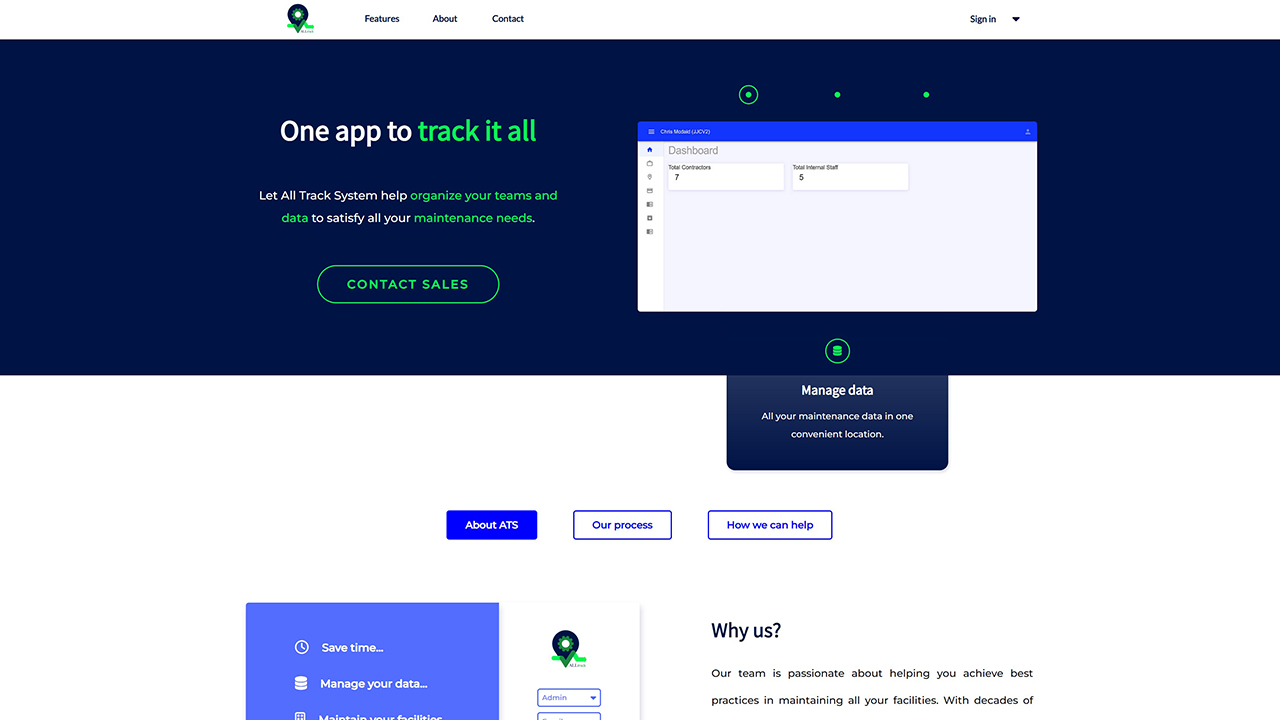
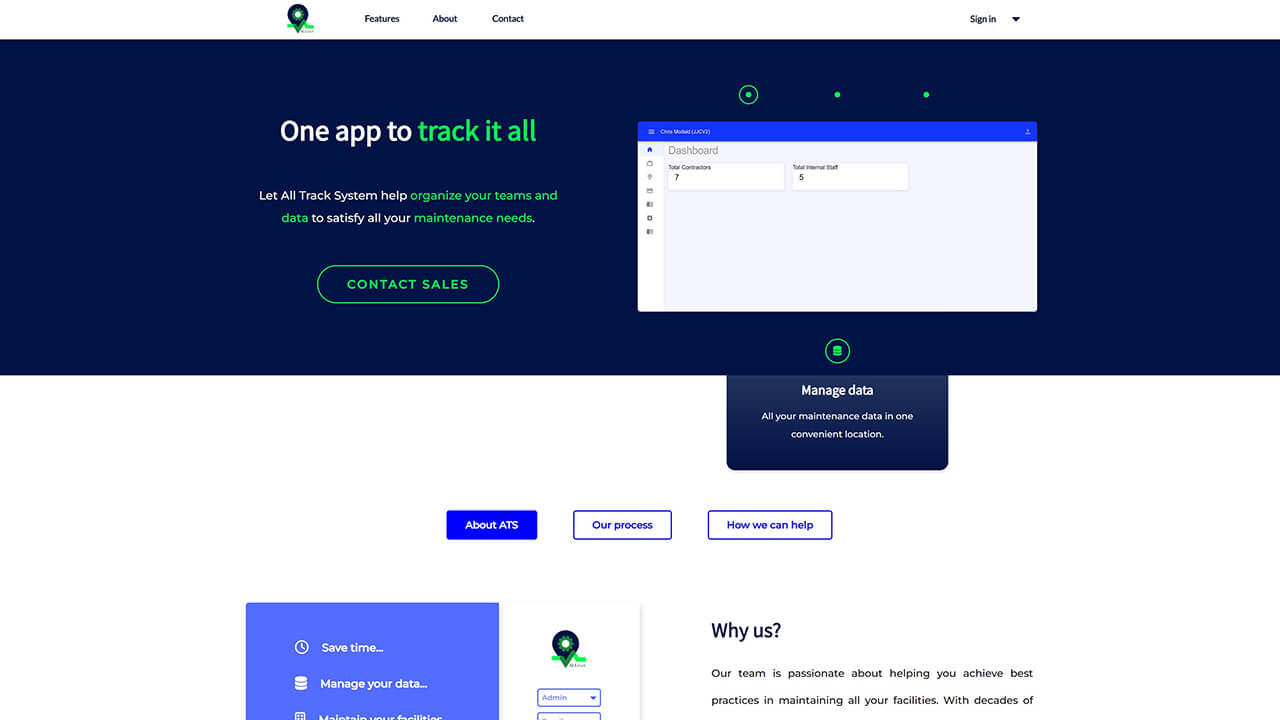
perf: assets modification
- Minify all images to reduce file size and improve load speed and performance.

- Edit profile image in Adobe Photoshop to clean up inconsistencies in transparent background.

diff --git a/src/components/UI/NavBar.js b/src/components/UI/NavBar.js
@@ -4,21 +4,27 @@ import Styles from "./NavBar.module.css";
 import resumeImg from "../../assets/google_logo.jpg";
 import MobileNav from "../UI/MobileNav";
 
-function NavBar() {
-
+function NavBar({ routePage }) {
   return (
     <nav className={Styles.nav}>
       <div className={Styles["nav-items"]}>
         <ul className={Styles["nav-list"]}>
           <li>
-            <a href="#header" className={Styles["nav-link"]}>
+            <a
+              href="#header"
+              className={Styles["nav-link"]}
+              onClick={() => routePage("home")}
+            >
               Home
             </a>
           </li>
           <li>
-            <a href="#about" className={Styles["nav-link"]}>
+            <div
+              className={Styles["nav-link"]}
+              onClick={() => routePage("home")}
+            >
               About
-            </a>
+            </div>
           </li>
           <li>
             <a href="#skills" className={Styles["nav-link"]}>
@@ -26,9 +32,12 @@ function NavBar() {
             </a>
           </li>
           <li>
-            <a href="#projects" className={Styles["nav-link"]}>
+            <div
+              className={Styles["nav-link"]}
+              onClick={() => routePage("project")}
+            >
               Projects
-            </a>
+            </div>
           </li>
           <li>
             <a href="#contact" className={Styles["nav-link"]}>

diff --git a/src/components/Layout/Header.js b/src/components/Layout/Header.js
@@ -24,8 +24,8 @@ function Header() {
         </h3>
         <p className={Styles.description}>
           I'm a curiosity-driven web developer who loves bringing projects to
-          life. I sweat the details, always strive to write clean, semantic, and accessible
-          code while paying careful attention to both client and project needs.
+          life. I sweat the details, paying careful attention to all client and project needs. I always look forward to opportunities involving collaboration and teamwork, and strive to write clean, semantic, and accessible
+          code.
           <span className={Styles.highlight}> View my bio to learn more...</span>
         </p>
         {/* <p>

diff --git a/src/App.js b/src/App.js
@@ -1,10 +1,20 @@
-import React from "react";
+import { React, useState } from "react";
 import Home from "./components/Pages/Home";
+import ProjectOverview from "./components/Pages/ProjectOverview";
+import About from "./components/Pages/About";
 
 function App() {
+  const [page, setPage] = useState("home");
+
+  const handlePage = routeName => {
+    setPage(routeName);
+  };
+
   return (
     <>
-      <Home />
+      {page === "home" && <Home routePage={handlePage} />}
+      {page === "project" && <ProjectOverview routePage={handlePage} />}
+      {page === "about" && <About routePage={handlePage} />}
     </>
   );
 }

diff --git a/src/components/UI/MobileNav.js b/src/components/UI/MobileNav.js
@@ -2,7 +2,7 @@ import { React, useState } from "react";
 import Button from "./Button";
 import Styles from "./MobileNav.module.css";
 import { FontAwesomeIcon } from "@fortawesome/react-fontawesome";
-import { faHouseUser as logoIcon } from "@fortawesome/free-solid-svg-icons";
+import { faS as logoIcon } from "@fortawesome/free-solid-svg-icons";
 import { faBars as burgerIcon } from "@fortawesome/free-solid-svg-icons";
 import { faX as xIcon } from "@fortawesome/free-solid-svg-icons";
 

diff --git a/src/components/Pages/About.js b/src/components/Pages/About.js
@@ -1,7 +1,18 @@
 import React from "react";
+import NavBar from "../UI/NavBar";
+import Contact from "../Layout/Contact";
+import Footer from "../Layout/Footer";
+import Skills from "../Layout/Skills";
 
-function About() {
-  return <div>About</div>;
+function Home({ routePage }) {
+  return (
+    <>
+      <NavBar routePage={routePage} />
+      <Skills />
+      <Contact />
+      <Footer />
+    </>
+  );
 }
 
-export default About;
+export default Home;

diff --git a/src/components/Pages/ProjectOverview.js b/src/components/Pages/ProjectOverview.js
@@ -1,0 +1,18 @@
+import React from "react";
+import NavBar from "../UI/NavBar";
+import Projects from "../Layout/Projects";
+import Contact from "../Layout/Contact";
+import Footer from "../Layout/Footer";
+
+function Home({ routePage }) {
+  return (
+    <>
+      <NavBar routePage={routePage} />
+      <Projects />
+      <Contact />
+      <Footer />
+    </>
+  );
+}
+
+export default Home;

diff --git a/src/components/Pages/Home.js b/src/components/Pages/Home.js
@@ -6,10 +6,11 @@ import Projects from "../Layout/Projects";
 import Contact from "../Layout/Contact";
 import Footer from "../Layout/Footer";
 
-function Home() {
+function Home({ routePage }) {
+
   return (
     <>
-      <NavBar />
+      <NavBar routePage={routePage} />
       <Header />
       <Skills />
       <Projects />

diff --git a/src/components/Layout/Header.module.css b/src/components/Layout/Header.module.css
@@ -48,7 +48,7 @@
     flex-direction: column;
     padding: 1.5rem;
     padding-bottom: 10vh;
-    min-height: 900px;
+    min-height: 1050px;
     gap: 0;
   }
 

diff --git a/src/components/UI/NavBar.module.css b/src/components/UI/NavBar.module.css
@@ -33,6 +33,7 @@
 
 .nav-link:hover {
     color: yellow;
+    cursor: pointer;
 }
 
 @media (max-width: 1200px) {
